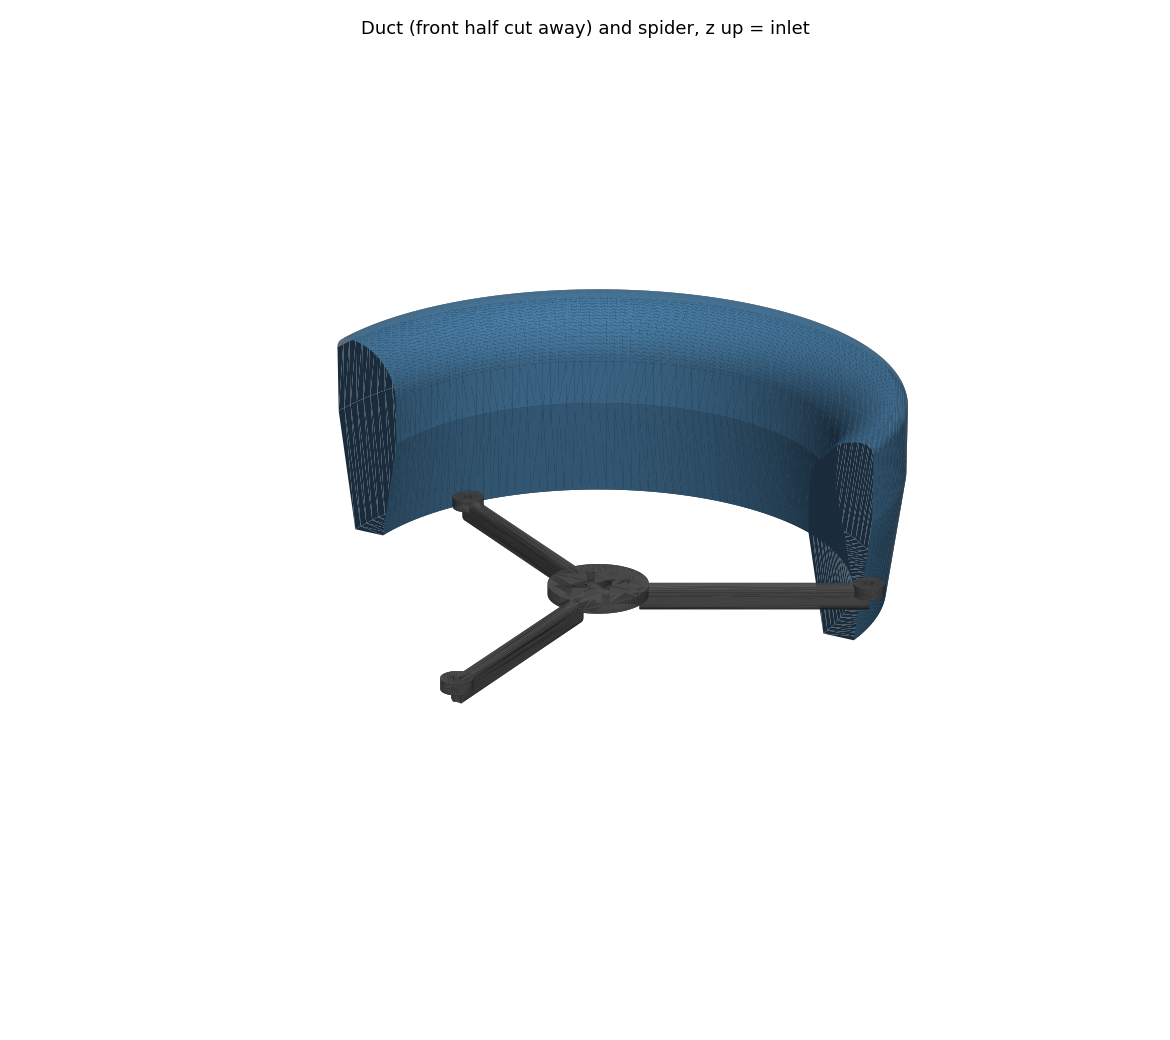
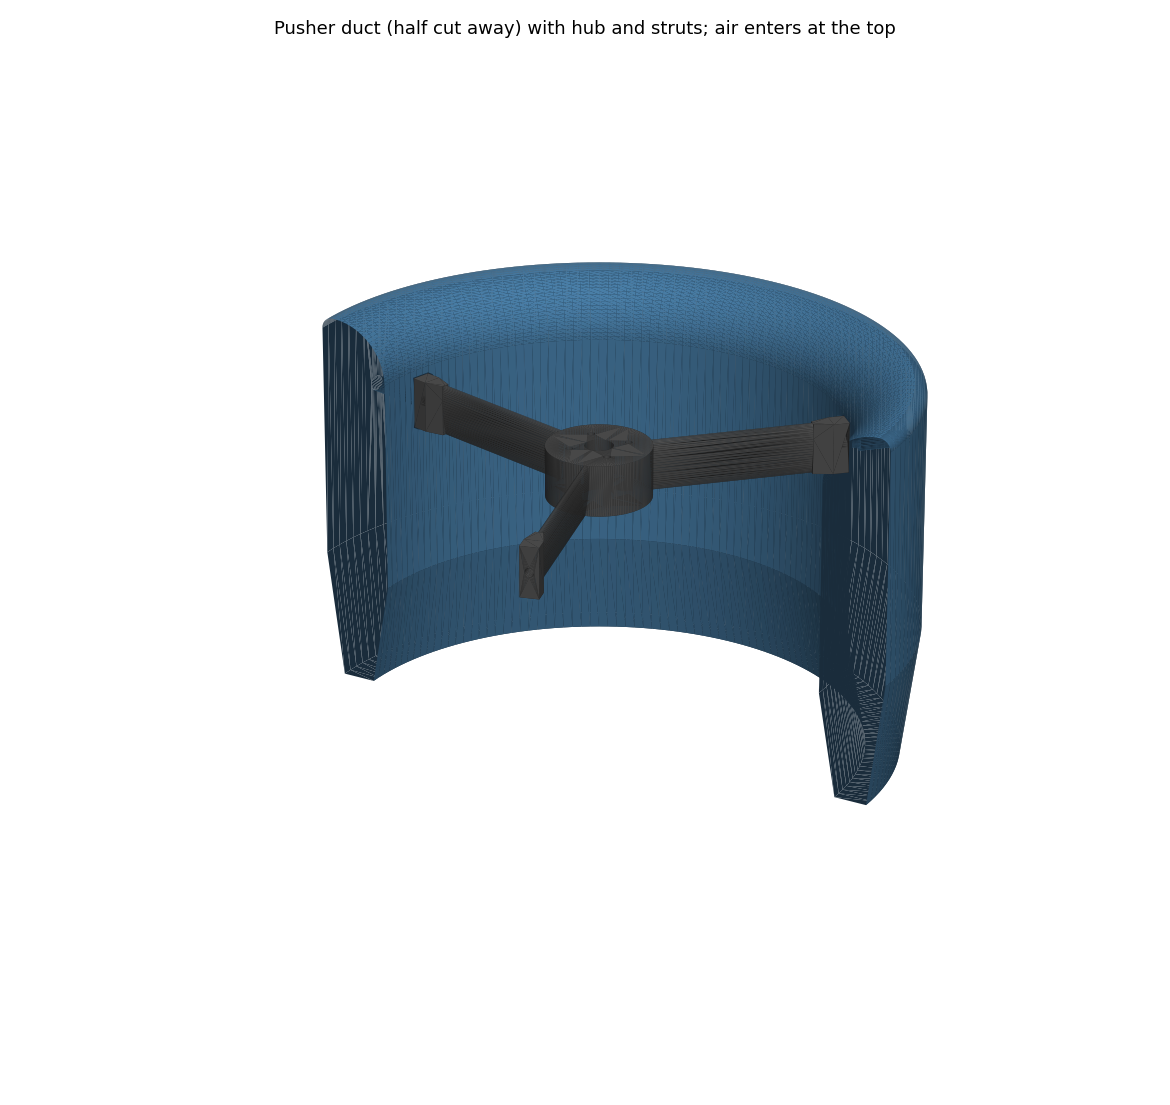
Duct: pusher layout with three NACA 0015 struts upstream of the propeller
Air now passes the stand plate, hub, struts and motor before the
propeller. The hub hangs the motor inside the straight throat, the struts
sit 55 mm upstream of the disc and screw into pockets in the duct wall,
and the hub prints flat. Moves the strut angles off the quarter cut
planes (the old tab at 270 deg sat on one).

Changed region(s): [[0.2769, 0.2154, 0.8, 0.7385], [0.2462, 0.0, 0.7692, 0.0308]]

diff --git a/hardware/duct-8in-axi2217/viewer.html b/hardware/duct-8in-axi2217/viewer.html
@@ -2,7 +2,7 @@
 <html lang="en">
 <head>
 <meta charset="utf-8">
-<title>Duct 8in Viewer</title>
+<title>Pusher Duct Viewer</title>
 <style>
   :root { --bg:#f4f6f7; --ink:#10171b; --ink-2:#46545c; --panel:#ffffffdd; }
   @media (prefers-color-scheme: dark) { :root { --bg:#111619; --ink:#e6ecef; --ink-2:#a3b1b8; --panel:#1b2226dd; } }
@@ -19,29 +19,31 @@
 <body>
 <canvas id="c"></canvas>
 <div class="panel">
-  <h1>Duct — APC 8x4.5MR on AXI 2217/12</h1>
+  <h1>Pusher duct — APC 8x4.5MRP on AXI 2217/12</h1>
   <div class="dim" id="dims"></div>
   <label><input type="checkbox" id="cut" checked> cut away a quarter</label>
   <label><input type="checkbox" id="prop" checked> propeller disc</label>
-  <label><input type="checkbox" id="spider" checked> spider + motor (placeholder size)</label>
-  <div class="hint">Drag to rotate · scroll to zoom · right-drag to pan. Air enters at the top.<br>Same parameters as duct.scad; motor sizes are not yet measured.</div>
+  <label><input type="checkbox" id="spider" checked> hub, struts, motor, stand plate (motor and plate: placeholder size)</label>
+  <div class="hint">Drag to rotate · scroll to zoom · right-drag to pan. Air enters at the top, past the stand, hub and struts, then the propeller.<br>Same parameters as duct.scad; motor sizes are not yet measured.</div>
 </div>
 <script src="https://cdnjs.cloudflare.com/ajax/libs/three.js/r128/three.min.js"></script>
 <script src="https://cdn.jsdelivr.net/npm/three@0.128.0/examples/js/controls/OrbitControls.js"></script>
 <script>
-const P = { prop_d: 203.2, tip_gap: 1.0, lip_r: 25, lip_out_r: 5, wall: 30, throat_len: 20, prop_to_mount: 55, diff_angle: 10,
-            arms_n: 3, arm_w: 6, arm_depth: 12, hub_r: 22, hub_t: 5, arm_angle0: 30 };
+const P = { prop_d: 203.2, tip_gap: 1.0, blade_below: 10, lip_r: 25, lip_out_r: 5, wall: 30, prop_to_mount: 55,
+            diff_angle: 10, diff_len: 45, hub_r: 22, struts_n: 3, strut_chord: 22, strut_tc: 0.15, root_w: 8, pocket: 3,
+            strut_angle0: 45 };
 const rad = d => d * Math.PI / 180;
 const throat_r = P.prop_d / 2 + P.tip_gap;
-const diff_len = P.prop_to_mount - P.throat_len / 2;
+const diff_len = P.diff_len;
 const exit_r = throat_r + diff_len * Math.tan(rad(P.diff_angle));
 const outer_exit_r = exit_r + 14.5;
-const z_lip0 = diff_len + P.throat_len, z_prop = diff_len + P.throat_len / 2, z_top = z_lip0 + P.lip_r;
+const z_prop = diff_len + P.blade_below, z_hub0 = z_prop + P.prop_to_mount, z_strut = z_hub0 + P.strut_chord / 2;
+const z_lip0 = z_strut + P.strut_chord / 2 + 5, z_top = z_lip0 + P.lip_r;
 const hl = throat_r + P.lip_r;
 const arc = (cx, cz, r, a0, a1, n = 30) => Array.from({ length: n + 1 }, (_, i) => {
   const a = rad(a0 + (a1 - a0) * i / n); return [cx + r * Math.cos(a), cz + r * Math.sin(a)]; });
 const prof = [[exit_r, 0], [throat_r, diff_len], [throat_r, z_lip0], ...arc(hl, z_lip0, P.lip_r, 180, 90),
-              ...arc(hl, z_top - P.lip_out_r, P.lip_out_r, 90, 0), [hl + P.lip_out_r, z_prop], [outer_exit_r, 0], [exit_r, 0]];
+              ...arc(hl, z_top - P.lip_out_r, P.lip_out_r, 90, 0), [throat_r + P.wall, z_prop], [outer_exit_r, 0], [exit_r, 0]];
 
 document.getElementById("dims").textContent =
   `tip gap        ${P.tip_gap.toFixed(1)} mm   (throat Ø${(2 * throat_r).toFixed(1)})\n` +
@@ -50,6 +52,7 @@ document.getElementById("dims").textContent =
   `disc below lip ${(z_top - z_prop).toFixed(0)} mm    (${(100 * (z_top - z_prop) / z_top).toFixed(0)} % of length)\n` +
   `diffuser       ${P.diff_angle}°, ${diff_len} mm, exit Ø${(2 * exit_r).toFixed(1)}\n` +
   `exit/disc area ${((exit_r / (P.prop_d / 2)) ** 2).toFixed(2)}\n` +
+  `struts end     ${(z_strut - P.strut_chord / 2 - z_prop).toFixed(0)} mm upstream of the disc\n` +
   `length         ${z_top} mm`;
 
 const canvas = document.getElementById("c");
@@ -61,7 +64,7 @@ scene.background = new THREE.Color(dark ? 0x111619 : 0xf4f6f7);
 const camera = new THREE.PerspectiveCamera(35, 1, 1, 5000);
 camera.position.set(380, 300, 420);
 const controls = new THREE.OrbitControls(camera, canvas);
-controls.target.set(0, 40, 0);
+controls.target.set(0, 80, 0);
 scene.add(new THREE.HemisphereLight(0xffffff, 0x445566, 0.75));
 const sun = new THREE.DirectionalLight(0xffffff, 0.7); sun.position.set(300, 500, 200); scene.add(sun);
 
@@ -90,24 +93,37 @@ const propDisc = new THREE.Mesh(new THREE.CylinderGeometry(P.prop_d / 2, P.prop_
 propDisc.position.y = z_prop; scene.add(propDisc);
 
 const mount = new THREE.Group();
-const grey = new THREE.MeshStandardMaterial({ color: 0x555555, roughness: 0.7 });
-const motor = new THREE.Mesh(new THREE.CylinderGeometry(14, 14, P.prop_to_mount - 12, 48), new THREE.MeshStandardMaterial({ color: 0x9aa0a4 }));
-motor.position.y = (P.prop_to_mount - 12) / 2; mount.add(motor);
-const hub = new THREE.Mesh(new THREE.CylinderGeometry(P.hub_r, P.hub_r, P.hub_t, 48), grey);
-hub.position.y = -P.hub_t / 2; mount.add(hub);
-const tab_r = (exit_r + outer_exit_r) / 2;
-for (let i = 0; i < P.arms_n; i++) {
-  const a = rad(P.arm_angle0 + i * 360 / P.arms_n), len = tab_r - P.hub_r + 4;
-  const arm = new THREE.Mesh(new THREE.BoxGeometry(len, P.arm_depth, P.arm_w), grey);
-  const mid = P.hub_r - 4 + len / 2;
-  arm.position.set(mid * Math.cos(a), -P.arm_depth / 2, -mid * Math.sin(a)); arm.rotation.y = a; mount.add(arm);
-  const tab = new THREE.Mesh(new THREE.CylinderGeometry(7, 7, P.hub_t, 32), grey);
-  tab.position.set(tab_r * Math.cos(a), -P.hub_t / 2, -tab_r * Math.sin(a)); mount.add(tab);
+const grey = new THREE.MeshStandardMaterial({ color: 0x555555, roughness: 0.7, side: THREE.DoubleSide });
+const motorLen = P.prop_to_mount - 12;
+const motor = new THREE.Mesh(new THREE.CylinderGeometry(14, 14, motorLen, 48), new THREE.MeshStandardMaterial({ color: 0x9aa0a4 }));
+motor.position.y = z_prop + 12 + motorLen / 2; mount.add(motor);
+const hub = new THREE.Mesh(new THREE.CylinderGeometry(P.hub_r, P.hub_r, P.strut_chord, 48), grey);
+hub.position.y = z_hub0 + P.strut_chord / 2; mount.add(hub);
+const plate = new THREE.Mesh(new THREE.BoxGeometry(40, 4, 40), new THREE.MeshStandardMaterial({ color: 0x333333, transparent: true, opacity: 0.7 }));
+plate.position.y = z_hub0 + P.strut_chord + 2; mount.add(plate);
+function nacaShape(c, t, n = 30) {
+  const up = Array.from({ length: n + 1 }, (_, i) => { const x = (1 - Math.cos(Math.PI * i / n)) / 2;
+    return [x * c, 5 * t * c * (0.2969 * Math.sqrt(x) - 0.1260 * x - 0.3516 * x * x + 0.2843 * x ** 3 - 0.1036 * x ** 4)]; });
+  const pts = [...up, ...up.slice(1, -1).reverse().map(([x, y]) => [x, -y])];
+  return new THREE.Shape(pts.map(([x, y]) => new THREE.Vector2(x, y)));
+}
+const strutLen = throat_r + P.pocket - 0.3 - (P.hub_r - 3);
+const strutGeo = new THREE.ExtrudeGeometry(nacaShape(P.strut_chord, P.strut_tc), { depth: strutLen, bevelEnabled: false });
+for (let i = 0; i < P.struts_n; i++) {
+  const a = rad(P.strut_angle0 + i * 360 / P.struts_n);
+  const g = new THREE.Group();
+  const m = new THREE.Mesh(strutGeo, grey);
+  m.rotation.z = -Math.PI / 2;          // chord runs downward from the leading edge at the top
+  m.position.z = P.hub_r - 3;           // start inside the hub, extrude radially outward
+  g.add(m);
+  g.rotation.y = a + Math.PI / 2;
+  g.position.y = z_strut + P.strut_chord / 2;
+  mount.add(g);
 }
 scene.add(mount);
 
-const arrow = new THREE.ArrowHelper(new THREE.Vector3(0, -1, 0), new THREE.Vector3(0, z_top + 90, 0), 60, 0x333333, 14, 8);
-scene.add(arrow);
+scene.add(new THREE.ArrowHelper(new THREE.Vector3(0, -1, 0), new THREE.Vector3(0, z_top + 90, 0), 60, 0x333333, 14, 8));
+scene.add(new THREE.ArrowHelper(new THREE.Vector3(0, -1, 0), new THREE.Vector3(0, -10, 0), 60, 0x333333, 14, 8));
 
 document.getElementById("cut").onchange = e => buildDuct(e.target.checked);
 document.getElementById("prop").onchange = e => propDisc.visible = e.target.checked;

diff --git a/hardware/duct-8in-axi2217/render.py b/hardware/duct-8in-axi2217/render.py
@@ -1,9 +1,10 @@
-"""Previews for the duct: a dimensioned half-section and a 3D view of the exported STLs.
+"""Previews for the pusher duct: a dimensioned half-section and a 3D view of the exported STLs.
 
 OpenSCAD's PNG export needs a display; this draws from the same numbers instead.
 Keep the parameters below in step with duct.scad.
 """
 import math
+import re
 import struct
 import sys
 
@@ -13,14 +14,18 @@ import matplotlib.pyplot as plt
 import numpy as np
 from mpl_toolkits.mplot3d.art3d import Poly3DCollection
 
-prop_d, tip_gap, lip_r, lip_out_r, wall, throat_len = 203.2, 1.0, 25, 5, 30, 20
-prop_to_mount, diff_angle = 55, 10
+prop_d, tip_gap, blade_below = 203.2, 1.0, 10
+lip_r, lip_out_r, wall = 25, 5, 30
+prop_to_mount, diff_angle, diff_len = 55, 10, 45
+hub_r, strut_chord, pocket = 22, 22, 3
 throat_r = prop_d / 2 + tip_gap
-diff_len = prop_to_mount - throat_len / 2
 exit_r = throat_r + diff_len * math.tan(math.radians(diff_angle))
 outer_exit_r = exit_r + 14.5
-z_lip0 = diff_len + throat_len
-z_prop = diff_len + throat_len / 2
+outer_r = throat_r + wall
+z_prop = diff_len + blade_below
+z_hub0 = z_prop + prop_to_mount
+z_strut = z_hub0 + strut_chord / 2
+z_lip0 = z_strut + strut_chord / 2 + 5
 z_top = z_lip0 + lip_r
 hl = throat_r + lip_r
 
@@ -30,35 +35,41 @@ def arc(c, r, a0, a1, n=30):
 
 
 prof = [(exit_r, 0), (throat_r, diff_len), (throat_r, z_lip0)] + arc((hl, z_lip0), lip_r, 180, 90) \
-    + arc((hl, z_top - lip_out_r), lip_out_r, 90, 0) + [(hl + lip_out_r, z_prop), (outer_exit_r, 0)]
+    + arc((hl, z_top - lip_out_r), lip_out_r, 90, 0) + [(outer_r, z_prop), (outer_exit_r, 0)]
 
 
 def section(path):
-    fig, ax = plt.subplots(figsize=(11, 6.2))
+    fig, ax = plt.subplots(figsize=(11, 7.6))
     r, z = zip(*prof)
     ax.fill(r, z, color="#4a7fa8", alpha=.85, lw=1, ec="#17364a")
-    ax.plot([0, prop_d / 2], [z_prop, z_prop], color="#d9822b", lw=3, label="APC 8x4.5MR disc (R 101.6 mm)")
-    ax.add_patch(plt.Rectangle((0, 0), 14, prop_to_mount - 12, color="#888", alpha=.6, label="AXI 2217 (placeholder size)"))
-    ax.add_patch(plt.Rectangle((0, -12), outer_exit_r - 4, 12, color="#555", alpha=.35, label="spider: hub + 3 arms, bolts to the exit face"))
-    ax.annotate("", xy=(0, z_top + 14), xytext=(0, z_top + 38), arrowprops=dict(arrowstyle="-|>", color="k"))
-    ax.text(3, z_top + 24, "air in", fontsize=9)
+    ax.plot([0, prop_d / 2], [z_prop, z_prop], color="#d9822b", lw=3, label="APC 8x4.5MRP disc (pusher)")
+    ax.add_patch(plt.Rectangle((0, z_prop + 12), 14, prop_to_mount - 12, color="#999", alpha=.7, label="AXI 2217 (placeholder size)"))
+    ax.add_patch(plt.Rectangle((0, z_hub0), hub_r, strut_chord, color="#555", alpha=.8, label="hub + 3 NACA 0015 struts"))
+    ax.add_patch(plt.Rectangle((hub_r, z_strut - strut_chord / 2), throat_r + pocket - hub_r, strut_chord, color="#555", alpha=.45))
+    ax.add_patch(plt.Rectangle((0, z_hub0 + strut_chord), 20, 4, color="#333", alpha=.5, label="Tyto motor plate (placeholder)"))
+    ax.annotate("", xy=(40, z_top - 5), xytext=(40, z_top + 30), arrowprops=dict(arrowstyle="-|>", color="k"))
+    ax.text(43, z_top + 12, "air in", fontsize=9)
+    ax.annotate("", xy=(60, -22), xytext=(60, 3), arrowprops=dict(arrowstyle="-|>", color="k"))
+    ax.text(63, -14, "air out", fontsize=9)
     ax.axvline(0, color="k", lw=.6, ls="-.")
+    gap = z_strut - strut_chord / 2 - z_prop
     notes = [
-        ((throat_r - 0.5, z_prop + 3), f"tip gap {tip_gap:.1f} mm\nthroat Ø{2 * throat_r:.1f}", (55, z_prop + 30)),
-        ((hl - lip_r * .7, z_lip0 + lip_r * .72), f"lip radius {lip_r} mm ({100 * lip_r / (2 * throat_r):.1f} % Dt)", (40, z_top + 16)),
-        ((hl + lip_out_r, z_prop), f"wall {wall} mm at the disc (≥ 20.3)\nouter Ø{2 * (hl + lip_out_r):.1f}", (150, z_prop + 10)),
-        (((exit_r + throat_r) / 2, diff_len / 2), f"diffuser {diff_angle}°, {diff_len:.0f} mm\nexit Ø{2 * exit_r:.1f}, area ratio {(exit_r / (prop_d / 2)) ** 2:.2f}", (35, 18)),
+        ((throat_r - 0.5, z_prop - 2), f"tip gap {tip_gap:.1f} mm\nthroat Ø{2 * throat_r:.1f}", (125, z_prop - 25)),
+        ((hl - lip_r * .7, z_lip0 + lip_r * .72), f"lip radius {lip_r} mm ({100 * lip_r / (2 * throat_r):.1f} % Dt)", (130, z_top + 18)),
+        ((outer_r, z_prop + 30), f"wall {wall} mm (≥ 20.3)\nouter Ø{2 * outer_r:.1f}", (140, z_prop + 50)),
+        (((exit_r + throat_r) / 2, diff_len / 2), f"diffuser {diff_angle}°, {diff_len} mm\nexit Ø{2 * exit_r:.1f}, area ratio {(exit_r / (prop_d / 2)) ** 2:.2f}", (128, 10)),
+        ((60, z_hub0 + 4), f"struts end {gap:.0f} mm ({100 * gap / (2 * throat_r):.0f} % Dt)\nupstream of the disc", (30, z_hub0 - 30)),
     ]
     for xy, txt, xt in notes:
         ax.annotate(txt, xy=xy, xytext=xt, fontsize=8.5, arrowprops=dict(arrowstyle="->", lw=.7))
-    ax.text(150, -9, f"length {z_top:.0f} mm; disc {z_top - z_prop:.0f} mm below the lip ({100 * (z_top - z_prop) / z_top:.0f} %)", fontsize=8.5)
+    ax.text(2, -38, f"length {z_top:.0f} mm; disc {z_top - z_prop:.0f} mm below the lip edge ({100 * (z_top - z_prop) / z_top:.0f} % of the length)", fontsize=8.5)
     ax.set_aspect("equal")
-    ax.set_xlim(-5, 175)
-    ax.set_ylim(-18, z_top + 42)
+    ax.set_xlim(-5, 200)
+    ax.set_ylim(-45, z_top + 40)
     ax.set_xlabel("radius from the axis, mm")
     ax.set_ylabel("height above the exit face, mm")
-    ax.set_title("Duct for APC 8x4.5MR on AXI 2217/12 — half-section (axis on the left)", fontsize=10)
-    ax.legend(loc="upper right", fontsize=8)
+    ax.set_title("Pusher duct for APC 8x4.5MRP on AXI 2217/12 — half-section (axis on the left)", fontsize=10)
+    ax.legend(loc="center right", fontsize=8)
     fig.tight_layout()
     fig.savefig(path, dpi=150)
 
@@ -68,36 +79,35 @@ def read_stl(path):
     n = struct.unpack("<I", d[80:84])[0]
     if 84 + 50 * n == len(d):
         a = np.frombuffer(d[84:], dtype=np.dtype([("n", "<3f4"), ("v", "<9f4"), ("a", "<u2")]), count=n)
-        return a["v"].reshape(-1, 3, 3)
-    import re
+        return a["v"].reshape(-1, 3, 3).astype(float)
     v = np.array([list(map(float, m.groups())) for m in re.finditer(rb"vertex\s+(\S+)\s+(\S+)\s+(\S+)", d)])
     return v.reshape(-1, 3, 3)
 
 
 def view3d(path, parts):
-    fig = plt.figure(figsize=(9, 8))
+    fig = plt.figure(figsize=(9, 8.5))
     ax = fig.add_subplot(projection="3d")
     light = np.array([0.4, -0.5, 0.75]); light /= np.linalg.norm(light)
-    for f, col, cut in parts:
+    for f, col, cut, dz in parts:
         t = read_stl(f)
+        t[:, :, 2] += dz
         if cut:
             t = t[(t[:, :, 1] >= -1).all(axis=1)]         # cut away the half nearest the camera to show the inside
         nrm = np.cross(t[:, 1] - t[:, 0], t[:, 2] - t[:, 0])
         nrm /= np.linalg.norm(nrm, axis=1, keepdims=True) + 1e-12
         shade = 0.35 + 0.65 * np.clip(nrm @ light, 0, 1)
         base = np.array(matplotlib.colors.to_rgb(col))
-        pc = Poly3DCollection(t, facecolors=np.clip(base[None] * shade[:, None], 0, 1), edgecolors="none")
-        ax.add_collection3d(pc)
-    ax.set_xlim(-140, 140); ax.set_ylim(-140, 140); ax.set_zlim(-60, 120)
-    ax.set_box_aspect((280, 280, 180))
-    ax.view_init(elev=22, azim=-60)
+        ax.add_collection3d(Poly3DCollection(t, facecolors=np.clip(base[None] * shade[:, None], 0, 1), edgecolors="none"))
+    ax.set_xlim(-140, 140); ax.set_ylim(-140, 140); ax.set_zlim(-10, 180)
+    ax.set_box_aspect((280, 280, 190))
+    ax.view_init(elev=24, azim=-60)
     ax.set_axis_off()
-    ax.set_title("Duct (front half cut away) and spider, z up = inlet", fontsize=10)
+    ax.set_title("Pusher duct (half cut away) with hub and struts; air enters at the top", fontsize=10)
     fig.tight_layout()
     fig.savefig(path, dpi=130)
 
 
 if __name__ == "__main__":
     section("section.png")
-    view3d("assembly.png", [("duct_full.stl", "#4a7fa8", True), ("spider.stl", "#555555", False)])
+    view3d("assembly.png", [("duct_full.stl", "#4a7fa8", True, 0), ("spider.stl", "#555555", False, z_hub0)])
     print("wrote section.png, assembly.png", file=sys.stderr)

diff --git a/hardware/duct-8in-axi2217/README.md b/hardware/duct-8in-axi2217/README.md
@@ -1,10 +1,17 @@
-# Duct for the APC 8x4.5MR on the AXI 2217/12 (r27 tree)
+# Pusher duct for the APC 8x4.5MRP on the AXI 2217/12 (r27 tree)
 
 A parametric duct designed to the rules in
 [`docs/acoustic-speculations/duct-inlet-design-rules.pdf`](../../docs/acoustic-speculations/duct-inlet-design-rules.pdf).
 The present r27 duct, unlined, gives −8.01 N at 2000 µs against −10.57 N for the bare
 propeller (2026-11-02), so it costs thrust. This one is meant to add it. **Untested: nothing
 here has been printed or run yet.**
+
+**Pusher layout (2026-11-02, Adam's choice):** air enters through the lip, passes the Tyto motor
+plate, the hub and three aerofoil struts and the motor, then the propeller, and leaves through the
+diffuser. The motor hangs from the hub, shaft down to the propeller. It needs a pusher propeller
+(APC 8x4.5MRP) or the motor reversed with the propeller flipped, and the stand will read thrust
+with the opposite sign to a tractor set-up. The stand and its motor plate now sit in the inflow,
+upstream of the lip.
 
 ![half-section](section.png)
 
@@ -13,10 +20,15 @@ here has been printed or run yet.**
 | tip gap | 1.0 mm (throat Ø205.2) | 1: as small as can be built |
 | inlet lip radius | 25 mm = 12.2 % D<sub>t</sub> | 2: 10–13 % D<sub>t</sub>, never under ~6 % |
 | wall at the propeller plane | 30 mm (outer Ø265.2) | 3: ≥ 10 % of D = 20.3 mm |
-| propeller disc | 35 mm below the lip, 39 % of the length | 4: behind the lip (NASA: 45 %) |
+| propeller disc | 107 mm below the lip edge, 66 % of the length | 4: well behind the lip; rearward is better static |
 | diffuser | 10°, 45 mm, exit Ø221.1, exit/disc area 1.18 | 5: 10°, area ratio 1.1–1.3 |
-| supports | 3-arm spider at the exit plane, 45 mm behind the disc | 6: ≥ ~11 mm behind the disc; odd arm count so the two blades never pass two arms at once |
-| length | 90 mm | |
+| struts | 3 × NACA 0015, 22 mm chord, trailing edges 55 mm (27 % D<sub>t</sub>) upstream of the disc | 6: well clear of the rotor; odd count so the two blades never pass two struts at once |
+| length | 162 mm | |
+
+Upstream struts put their wakes into the propeller, which is why they sit as far forward of it
+as the motor allows and have an aerofoil section. That reasoning is mine, not from the
+extracts; the 5.5 % D<sub>t</sub> spacing rule in the PDF is the only sourced number for strut
+placement.
 
 ## Files
 
@@ -30,15 +42,17 @@ openscad -D 'part="spider"'  -o spider.stl       duct.scad
 ```
 
 - `duct.scad` — the model; every number above is a parameter at the top. Changing
-  `prop_to_mount` moves the exit plane, so the spider always sits on the motor's rear mount.
-- `duct_quarter.stl` — print **4×** (133 × 133 × 90 mm, exit face on the bed); 4 pin holes
-  Ø3.2 per cut face for 3 mm pins or filament offcuts, then glue.
+  `prop_to_mount` moves the hub and struts and lengthens or shortens the throat to suit.
+- `duct_quarter.stl` — print **4×** (133 × 133 × 162 mm, exit face on the bed); 6 pin holes
+  Ø3.2 per cut face for 3 mm pins or filament offcuts, then glue. Each strut root sits in a 3 mm
+  pocket in the throat wall and is held by one M3 screw from outside (counterbored) into a
+  heat-set insert in the strut root.
 - `duct_full.stl` — the whole ring, for a bed of at least 270 mm.
-- `spider.stl` — motor plate + 3 arms (218 × 191 × 12 mm), printed flat. It sits between the
-  motor's rear mount and the Tyto motor plate, and bolts into three M3 heat-set inserts in the
-  duct's exit face.
+- `spider.stl` — hub + 3 aerofoil struts (180 × 180 × 22 mm), prints flat on the motor-side face.
+  The motor bolts to its downstream face and the Tyto motor plate to its upstream face, on the
+  same long M3 bolts (stand plate → hub → motor).
 - `viewer.html` — interactive 3D view in the browser (three.js from the CDN; built from the same
-  profile as `duct.scad`, so keep the two in step). Open it with `/snap/bin/brave viewer.html`.
+  numbers as `duct.scad`, so keep the two in step). Open it with `/snap/bin/brave viewer.html`.
 - `render.py` — redraws `section.png` and `assembly.png` (OpenSCAD's own PNG export needs a display).
 
 ## Measure before printing
@@ -46,15 +60,16 @@ openscad -D 'part="spider"'  -o spider.stl       duct.scad
 The motor dimensions in `duct.scad` are **placeholders, not verified data** (marked `[MEASURE]`):
 
 - `prop_to_mount` (55 mm) — propeller disc to the motor's rear mounting face, with the prop adapter fitted;
-- `mount_holes_n`, `mount_holes_pcd` (4 on Ø25) — the AXI 2217 rear-mount hole pattern;
-- `hub_hole_d` (12 mm) — clearance for whatever protrudes from the motor's rear.
+- `mount_holes_n`, `mount_holes_pcd` (4 on Ø25) — the AXI 2217 rear-mount hole pattern, which the Tyto plate must share;
+- `hub_hole_d` (12 mm) — clearance for whatever protrudes from the motor's rear;
+- `blade_below` (10 mm) — straight throat below the disc; must cover the blade tips' axial extent.
 
-Also check that the blade tips' axial thickness fits inside the 20 mm straight throat, and
-measure the real tip gap after assembly with a feeler gauge. A 3D-printed ring in four pieces
-will not be round to 0.1 mm, so sand the throat until the tightest blade clears everywhere.
+Measure the real tip gap after assembly with a feeler gauge. A ring printed in four pieces will
+not be round to 0.1 mm, so sand the throat until the tightest blade clears everywhere.
 
 ## Testing it
 
 Same-day bare propeller and current unlined duct first, then this duct, then the bare propeller
 again (§05 of the rules PDF). Repeats of one set-up agree within 0.1 N, so a difference above
-~0.2 N is real. Compare per watt or at equal rpm as well as at equal ESC signal.
+~0.2 N is real. Compare per watt or at equal rpm as well as at equal ESC signal, and mind the
+flipped thrust sign.
